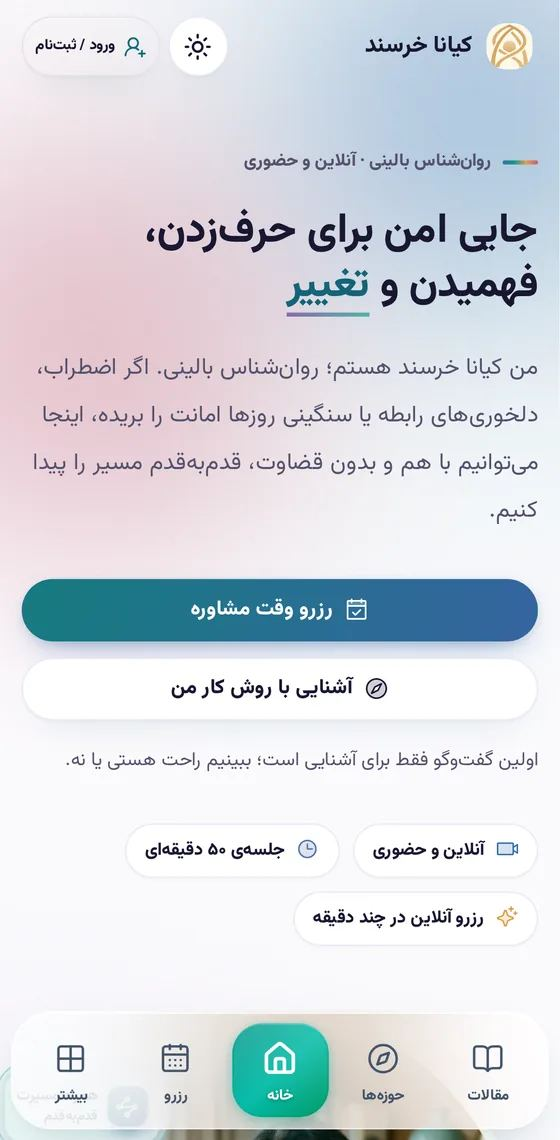
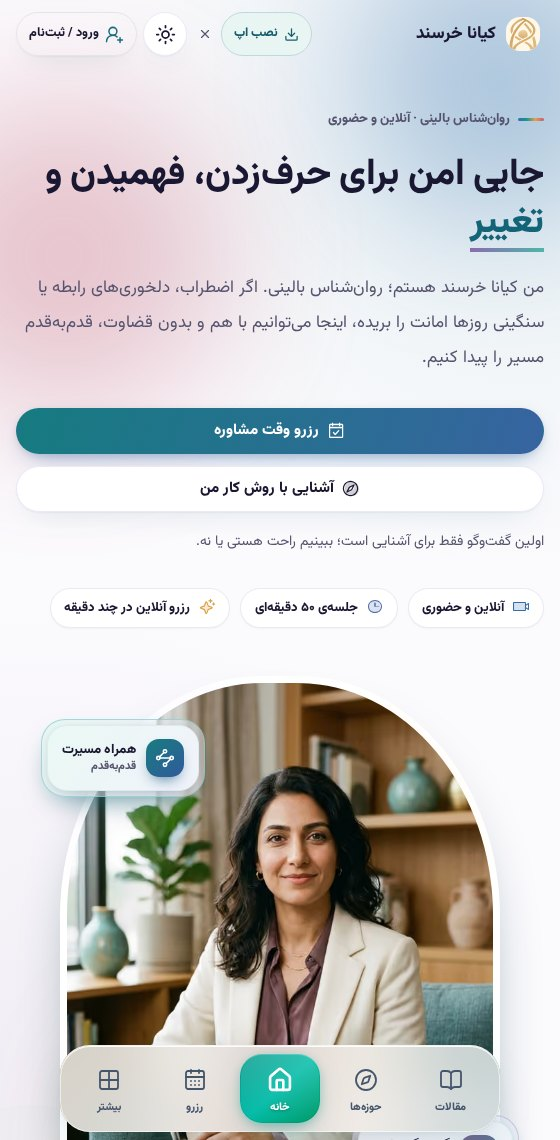
chore(repo): keep only what the project runs on
`docs/` held eight README-only images, and nothing else in the tree was
unreferenced — every icon, cover and font under `public/` is used, several of
them at runtime (the theme-swapped favicons, `mark.svg` and one `.svg` cover
seeded into the database, the Phosphor faces their stylesheets point at).

- readme images now come from `public/screenshot-{wide,narrow}.jpg`, the two the
  PWA manifest already ships, so the gallery costs no extra bytes
- those two were stale (the old header and type scale); regenerated from the
  current build at their declared 1400x875 and 560x1140
- `docs/` removed; README tree updated

376 tracked files, 8.7 MB. 52 tests still green.

diff --git a/README.md b/README.md
@@ -1,6 +1,6 @@
 <div align="center">
 
-<img src="docs/cover.jpg" alt="کیانا خرسند — جایی امن برای فهمیدن و تغییر" width="100%" />
+<img src="public/screenshot-wide.jpg" alt="کیانا خرسند — جایی امن برای فهمیدن و تغییر" width="100%" />
 
 # 🌿 کیانا خرسند
 
@@ -48,29 +48,11 @@
 
 <div align="center">
 
-**صفحهٔ نخست — دسکتاپ**
+<img src="public/screenshot-wide.jpg" alt="صفحهٔ نخست — دسکتاپ" width="100%" />
 
-<img src="docs/screenshots/home-desktop.webp" alt="صفحه نخست" width="100%" />
+<img src="public/screenshot-narrow.jpg" alt="صفحهٔ نخست — موبایل" height="430" />
 
-**رزرو وقت با تقویم شمسی**
-
-<img src="docs/screenshots/booking.webp" alt="فرم رزرو" width="70%" />
-
-<p>
-<img src="docs/screenshots/home-mobile.webp" alt="نمای موبایل" height="430" />
-&nbsp;&nbsp;
-<img src="docs/screenshots/admin-panel.webp" alt="پنل مدیریت" width="620" />
-</p>
-
-**ورود مدیران — شیشهٔ نازک، حلقهٔ فوکوس یکپیکسلی**
-
-<img src="docs/screenshots/admin-login.webp" alt="صفحه ورود مدیران" width="72%" />
-
-<p>
-<img src="docs/screenshots/admin-login-dark.webp" alt="ورود مدیران — تم تاریک" width="48%" />
-&nbsp;&nbsp;
-<img src="docs/screenshots/pwa-address.webp" alt="فرمان «رفتن به آدرس» در نسخه نصبشده" height="300" />
-</p>
+<sub>همان دو تصویری که در مانیفست PWA هم استفاده میشوند.</sub>
 
 </div>
 
@@ -216,7 +198,6 @@ src/
 └── types/                    # قراردادهای دامنه
 
 e2e/                          # Playwright: اجرا، PWA، جداسازی نقش، مقالهها، کاروسل، اورلیها، متادیتا
-docs/                         # تصاویر README
 ```
 
 **قاعدهٔ چیدمان:** هر دامنه در `features/<domain>` با سه فایل همنام — `queries.ts` (خواندن)، `actions.ts` (نوشتن)، `ui/` (نمایش). صفحههای `app/` فقط ترکیب میکنند.
